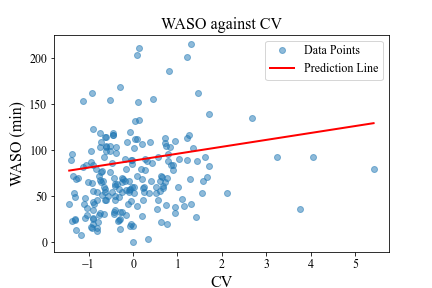
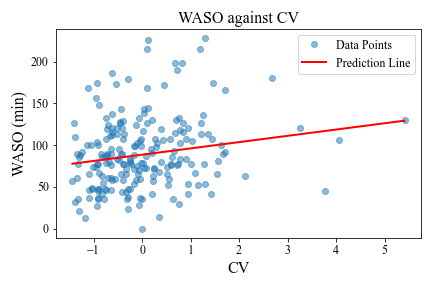
plot of residuals + t-test of descriptive statistics

diff --git a/ResidualsHistogram.py b/ResidualsHistogram.py
@@ -16,16 +16,19 @@ from sklearn.preprocessing import StandardScaler
 from sklearn import model_selection, linear_model
 import os
 
+# Base directory
+base_dir = r"L:\LovbeskyttetMapper01\StenoSleepQCGM\Concatenated data\Residuals"
+
+#%% WASO
 
 # Import data
-base_dir = r"L:\LovbeskyttetMapper01\StenoSleepQCGM\Concatenated data\Residuals"
-file_path = os.path.join(base_dir, 'residuals.csv')
-residuals =  pd.read_csv(file_path)
+file_path = os.path.join(base_dir, 'residuals_WASO_CV.csv')
+residuals_waso =  pd.read_csv(file_path)
 
 # Histogram of residuals
 plt.figure(figsize=(8,7))
-plt.hist(residuals, bins=20)
-plt.title(f"Histogram of the residuals", fontname="Times New Roman", fontsize=30)
+plt.hist(residuals_waso, bins=20)
+plt.title("Residuals for WASO against CV (nightly)", fontname="Times New Roman", fontsize=30)
 plt.xlabel("Residuals", fontsize=28, family='Times New Roman')
 plt.ylabel("Frequency", fontsize=28, family='Times New Roman')
 plt.xticks(fontsize=26, family='Times New Roman')
@@ -35,5 +38,28 @@ plt.show()
 
 # Save figure
 out_dir = r"H:\GitHub\Bachelor\Plots"
-out_path = os.path.join(out_dir, 'Model1_residuals.png')
+out_path = os.path.join(out_dir, 'WASO_CV_residuals.png')
 plt.savefig(out_path)
+
+#%% Efficiency
+
+# Import data
+file_path = os.path.join(base_dir, 'residuals_Efficiency_CV.csv')
+residuals_eff =  pd.read_csv(file_path)
+
+# Histogram of residuals
+plt.figure(figsize=(8,7))
+plt.hist(residuals_eff, bins=20)
+plt.title("Residuals for Effciency against CV", fontname="Times New Roman", fontsize=30)
+plt.xlabel("Residuals", fontsize=28, family='Times New Roman')
+plt.ylabel("Frequency", fontsize=28, family='Times New Roman')
+plt.xticks(fontsize=26, family='Times New Roman')
+plt.yticks(fontsize=26, family='Times New Roman')
+plt.tight_layout()
+plt.show()
+
+# Save figure
+out_dir = r"H:\GitHub\Bachelor\Plots"
+out_path = os.path.join(out_dir, 'Efficiency_CV_residuals.png')
+plt.savefig(out_path)
+

diff --git a/PlotSleepEfficiency.py b/PlotSleepEfficiency.py
@@ -28,8 +28,8 @@ plt.close('all')
 
 base_dir = r"L:\LovbeskyttetMapper01\StenoSleepQCGM\Concatenated data"
 
-cgm_file = "\concatenated_cgm.csv"
-epoch_file = "\concatenated_epochs.csv"
+cgm_file = "\concatenated_cgm_11.csv"
+epoch_file = "\concatenated_epochs_11.csv"
 
 # Construct the full file paths
 cgm_file_path = os.path.join(base_dir+cgm_file)
@@ -62,6 +62,7 @@ plt.xticks(fontsize=12, family='Times New Roman')
 plt.yticks(fontsize=12, family='Times New Roman')
 legend_font = {'family': 'Times New Roman', 'size': 12}
 plt.legend(prop=legend_font)
+plt.tight_layout()
 plt.show()
 
 plt.savefig(f"H:\GitHub\Bachelor\Plots\CV vs. Sleep Efficiency with trend.png", format="png")

diff --git a/PlotConcatenateData.py b/PlotConcatenateData.py
@@ -29,8 +29,8 @@ plt.close('all')
 
 base_dir = r"L:\LovbeskyttetMapper01\StenoSleepQCGM\Concatenated data"
 
-cgm_file = "\concatenated_cgm.csv"
-epoch_file = "\concatenated_epochs.csv"
+cgm_file = "\concatenated_cgm_11.csv"
+epoch_file = "\concatenated_epochs_11.csv"
 
 # Construct the full file paths
 cgm_file_path = os.path.join(base_dir+cgm_file)
@@ -64,6 +64,7 @@ plt.xticks(fontsize=12, family='Times New Roman')
 plt.yticks(fontsize=12, family='Times New Roman')
 legend_font = {'family': 'Times New Roman', 'size': 12}
 plt.legend(prop=legend_font)
+plt.tight_layout()
 plt.show()
 
 plt.savefig(f"H:\GitHub\Bachelor\Plots\CV vs. WASO with trend.png", format="png")
